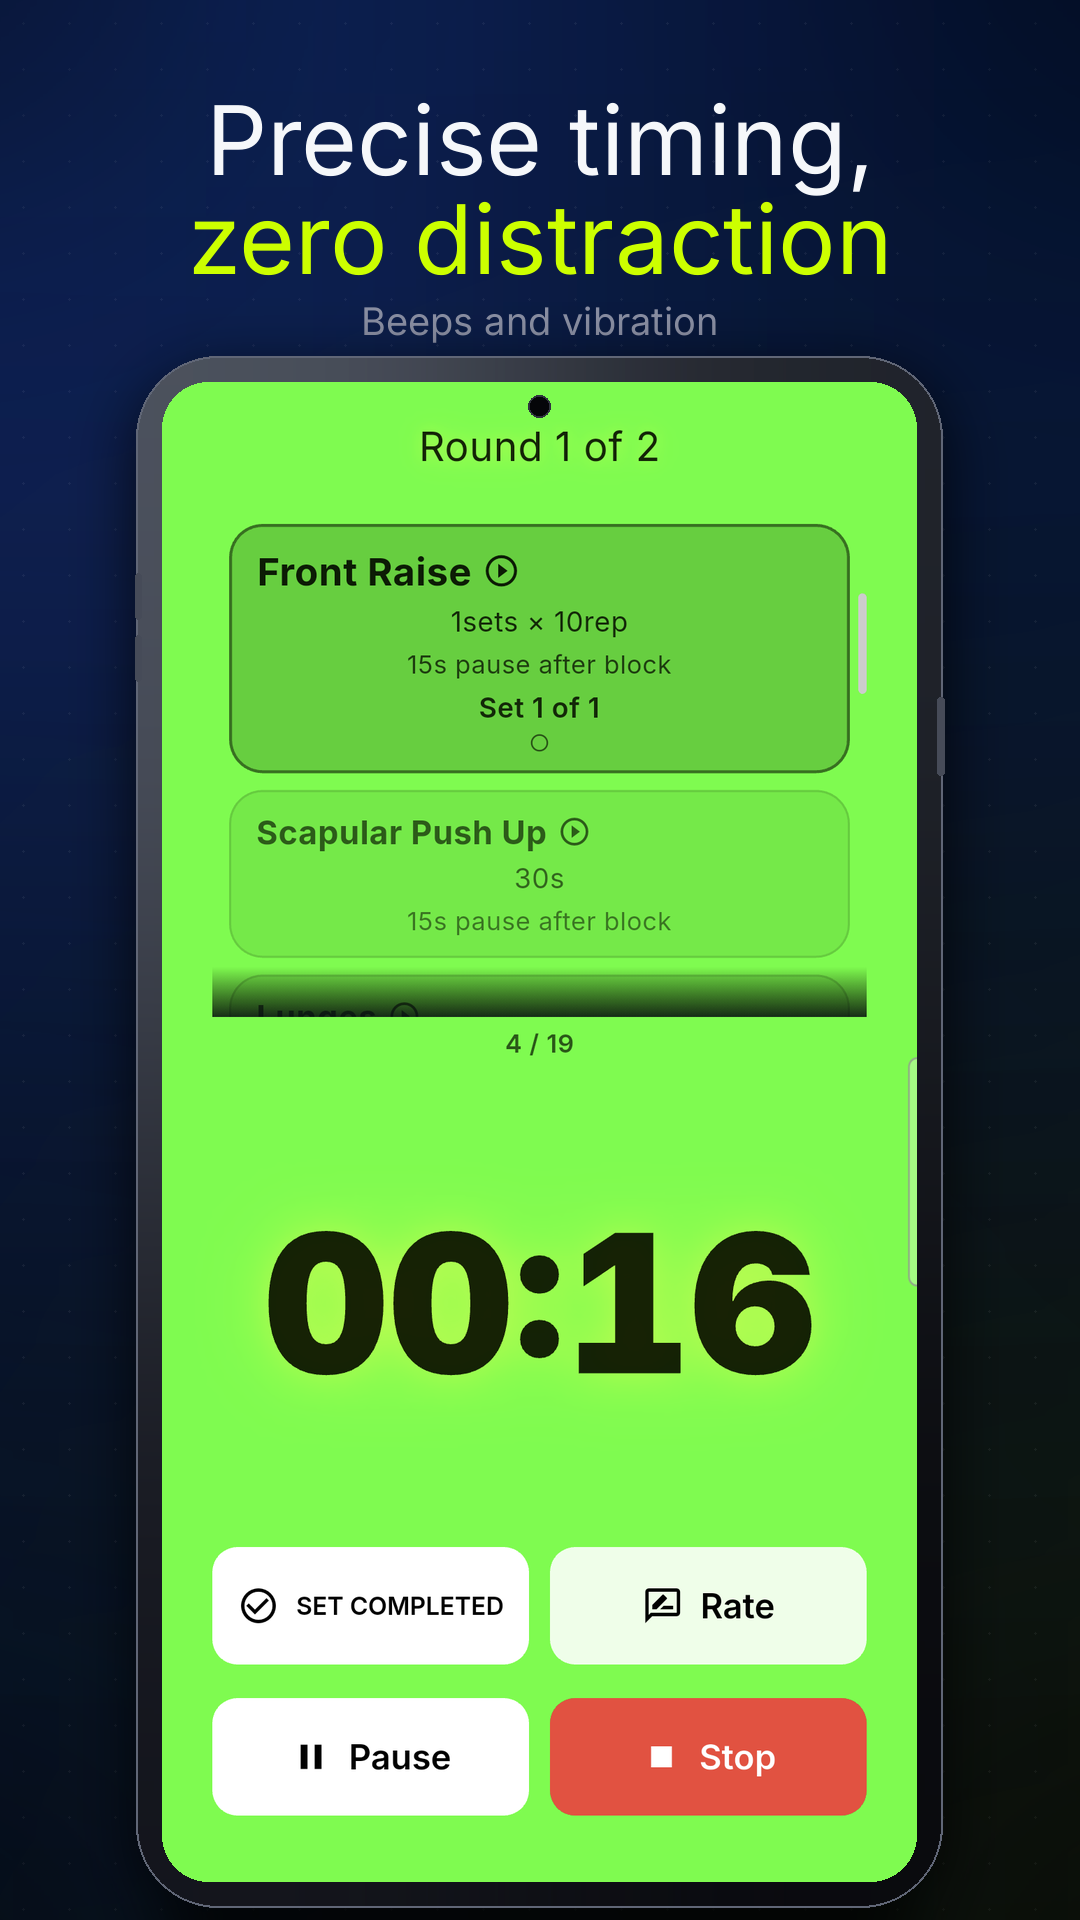
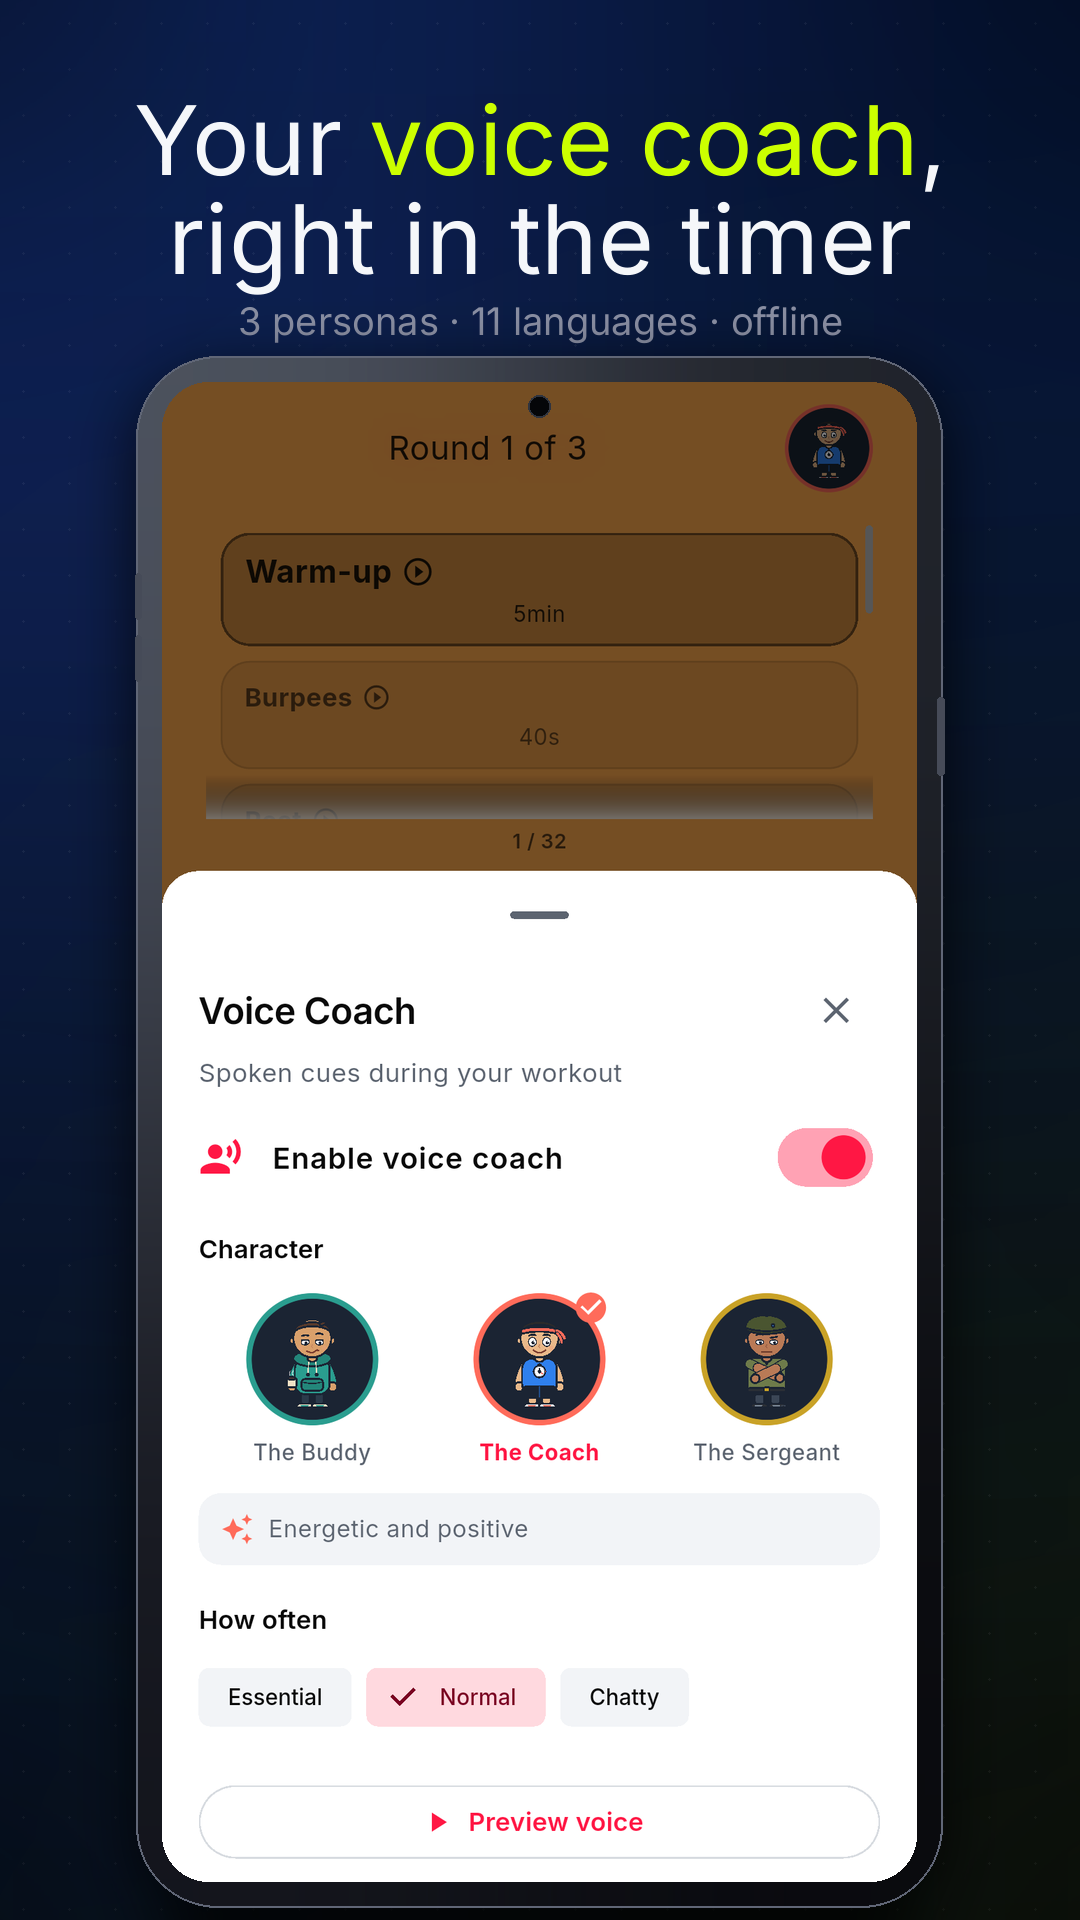
feat: update voice coach feature descriptions and improve user guides

diff --git a/USER_GUIDE.it.md b/USER_GUIDE.it.md
@@ -116,7 +116,7 @@ Un contatore nell'intestazione dei filtri mostra quanti workout corrispondono. I
 - **Pausa / Riprendi** congela il timer (si ferma anche il tracciamento GPS).
 - **Stop** termina la sessione (chiede sempre conferma); anche la pressione del tasto **indietro** durante una sessione chiede conferma.
 - I **beep** e la **vibrazione** segnalano i cambi di fase — si possono disattivare nelle Impostazioni.
-- **Coach vocale (opzionale, opt-in)** — 🚧 **In arrivo nella prossima release.** Si attiva in **Impostazioni → Notifiche → Coach vocale** (spento di default). Durante l'allenamento trovi l'**avatar del coach in alto a destra**: toccalo per scegliere fra tre personaggi (Compagno ironico, Coach energico, Sergente deciso), regolare la frequenza, ascoltare un'anteprima, attivare o **spegnere subito** il coach con l'interruttore (con “Annulla” se tocchi per sbaglio). La voce annuncia l'attività (“Corsa.”) o la serie numerata (“Prima serie: burpees.”), il riscaldamento e il defaticamento, il riposo, gli ultimi 30/10 secondi e le soglie di distanza. Il pacchetto audio è pre-generato e funziona **offline**, senza motore TTS sul telefono. Se l'audio è muto, la frase compare in una **bubble**; a fine allenamento il **volto del coach** compare al posto della coppa mentre dice la frase finale. Se la voce è spenta o un clip non è disponibile restano solo i beep.
+- **Coach vocale (opzionale, opt-in)** — Si attiva in **Impostazioni → Notifiche → Coach vocale** (spento di default). Durante l'allenamento trovi l'**avatar del coach in alto a destra**: toccalo per scegliere fra tre personaggi (Compagno ironico, Coach energico, Sergente deciso), regolare la frequenza, ascoltare un'anteprima, attivare o **spegnere subito** il coach con l'interruttore (con “Annulla” se tocchi per sbaglio). La voce annuncia l'attività (“Corsa.”) o la serie numerata (“Prima serie: burpees.”), il riscaldamento e il defaticamento, il riposo, gli ultimi 30/10 secondi e le soglie di distanza. Il pacchetto audio è pre-generato e funziona **offline**, senza motore TTS sul telefono. Se l'audio è muto, la frase compare in una **bubble**; a fine allenamento il **volto del coach** compare al posto della coppa mentre dice la frase finale. Se la voce è spenta o un clip non è disponibile restano solo i beep.
 
 ### Distanza e GPS
 

diff --git a/USER_GUIDE.md b/USER_GUIDE.md
@@ -116,7 +116,7 @@ A counter in the filters header shows how many workouts match. Custom workouts a
 - **Pause / Resume** freezes the timer (GPS tracking also pauses).
 - **Stop** ends the session (always asks for confirmation); pressing **back** during a session asks for confirmation too.
 - **Beeps** and **vibration** signal phase changes — both can be turned off in Settings.
-- **Voice coach (optional, opt-in)** — 🚧 **Coming in the next release.** Enable it in **Settings → Notifications → Voice Coach** (off by default). During a workout the **coach avatar sits in the top-right**: tap it to pick one of three personas (wry Companion, energetic Coach, firm Sergeant), adjust frequency, preview the voice, or **turn the coach off immediately** with the switch (“Undo” if you tap by mistake). It announces the activity (“Running.”) or the numbered set (“First set: burpees.”), warm-up and cool-down, rest, the last 30/10 seconds and distance thresholds. The audio pack is pre-generated and works **offline**, with no on-device TTS engine. When audio is muted the phrase appears in a **bubble**; at the end of the workout the **coach's face** replaces the trophy while the final line plays. If the voice is off or a clip is unavailable you still get the beeps.
+- **Voice coach (optional, opt-in)** — Enable it in **Settings → Notifications → Voice Coach** (off by default). During a workout the **coach avatar sits in the top-right**: tap it to pick one of three personas (wry Companion, energetic Coach, firm Sergeant), adjust frequency, preview the voice, or **turn the coach off immediately** with the switch (“Undo” if you tap by mistake). It announces the activity (“Running.”) or the numbered set (“First set: burpees.”), warm-up and cool-down, rest, the last 30/10 seconds and distance thresholds. The audio pack is pre-generated and works **offline**, with no on-device TTS engine. When audio is muted the phrase appears in a **bubble**; at the end of the workout the **coach's face** replaces the trophy while the final line plays. If the voice is off or a clip is unavailable you still get the beeps.
 
 ### Distance and GPS
 

diff --git a/FEATURES_GUIDE.md b/FEATURES_GUIDE.md
@@ -225,9 +225,9 @@ If your Supporter badge is expired:
 - Tapping the notification opens the Support tab.
 - You can turn off reminder notifications in device settings.
 
-### Voice Coach (optional, opt-in) — 🚧 Coming in the next release
+### Voice Coach (optional, opt-in)
 
-> **Not in the currently published release.** Enable it in **Settings → Notifications → Voice Coach** (off by default). During a workout the **coach avatar sits in the top-right**: tap it to pick one of three personas (wry Companion, energetic Coach, firm Sergeant), adjust frequency, preview the voice, or **turn the coach off immediately** with the switch (“Undo” if you tap by mistake). It announces the activity (“Running.”) or the numbered set (“First set: burpees.”), warm-up and cool-down, rest, the last 30/10 seconds and distance thresholds. The audio pack is pre-generated and works **offline**, with no on-device TTS engine. When audio is muted the phrase appears in a **bubble**; at the end of the workout the **coach's face** replaces the trophy while the final line plays. If the voice is off or a clip is unavailable you still get the beeps.
+> Enable it in **Settings → Notifications → Voice Coach** (off by default). During a workout the **coach avatar sits in the top-right**: tap it to pick one of three personas (wry Companion, energetic Coach, firm Sergeant), adjust frequency, preview the voice, or **turn the coach off immediately** with the switch (“Undo” if you tap by mistake). It announces the activity (“Running.”) or the numbered set (“First set: burpees.”), warm-up and cool-down, rest, the last 30/10 seconds and distance thresholds. The audio pack is pre-generated and works **offline**, with no on-device TTS engine. When audio is muted the phrase appears in a **bubble**; at the end of the workout the **coach's face** replaces the trophy while the final line plays. If the voice is off or a clip is unavailable you still get the beeps.
 
 ### Hands-free Rate (Supporter) — 🚧 Coming soon
 

diff --git a/FAQ.md b/FAQ.md
@@ -121,7 +121,7 @@ Yes. Settings > Start Delay (0 to 15 seconds). This is the countdown before your
 Yes. Settings > Audio (sounds/beeps) and Settings > Vibration. Toggle each on or off.
 
 ### Is there a voice coach or voice commands?
-Not yet. A **voice coach** (a short spoken cue before the `GO` beep) and **hands-free voice rating** (say "easy" / "normal" / "hard" / "not done") are planned but **not in the current release**. Until then you get the beeps and the manual **Rate** button.
+Yes. The **voice coach** is available in **Settings → Notifications → Voice Coach** (off by default): it announces the activity, numbered sets, rest, warm-up/cool-down and countdowns in 11 languages, with three personas, an avatar in the timer and a speech bubble when audio is muted. **Hands-free voice rating** ("easy" / "normal" / "hard" / "not done") is still planned and not in the current release; for now use the manual **Rate** button.
 
 ---
 

diff --git a/WORKOUT_GUIDE.md b/WORKOUT_GUIDE.md
@@ -189,7 +189,7 @@ The timer screen is your control center during a workout.
 - **Beep end**: different-pitch beep when a phase ends.
 - **Vibration**: short pulse at phase changes.
 - All configurable in Settings > Audio / Vibration.
-- **Voice coach**: 🚧 coming in the next release — spoken activity names, numbered sets, rest and countdown announcements.
+- **Voice coach**: spoken activity names, numbered sets, rest and countdown announcements.
 
 ### Background Behavior
 
@@ -290,7 +290,7 @@ When you finish (or stop) a workout:
 
 ## Pre-built Workouts
 
-Blocktomic ships with **44 ready-to-use workouts** across every family:
+Blocktomic ships with **48 ready-to-use workouts** across every family:
 
 | Family | Count | Highlights |
 |---|---|---|
